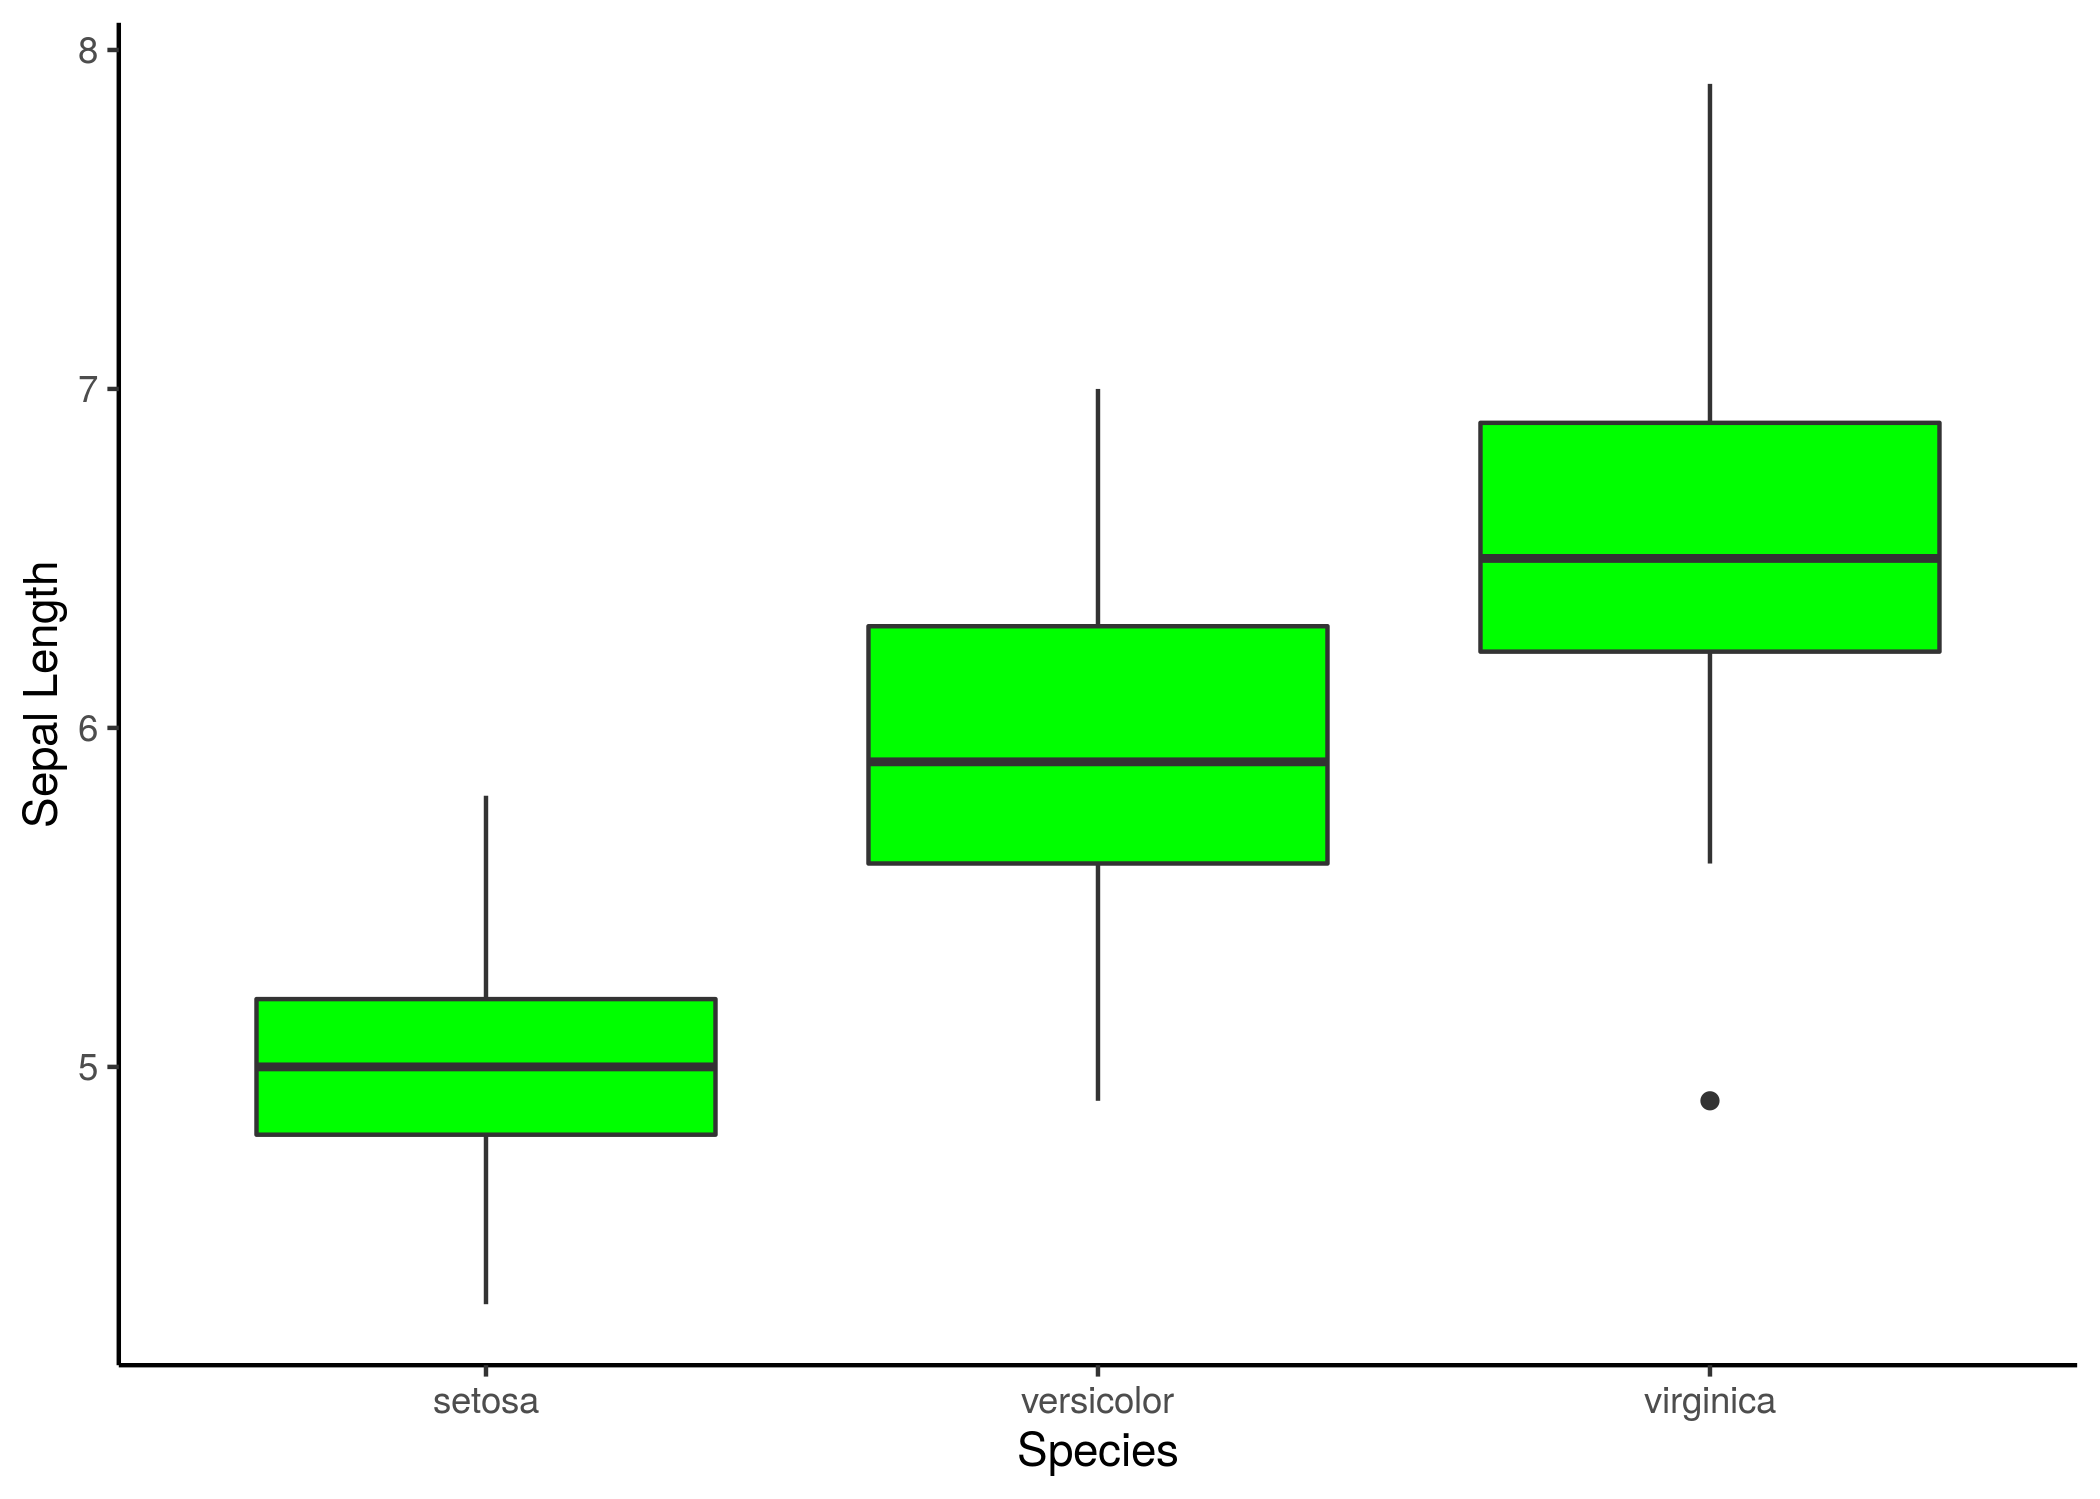
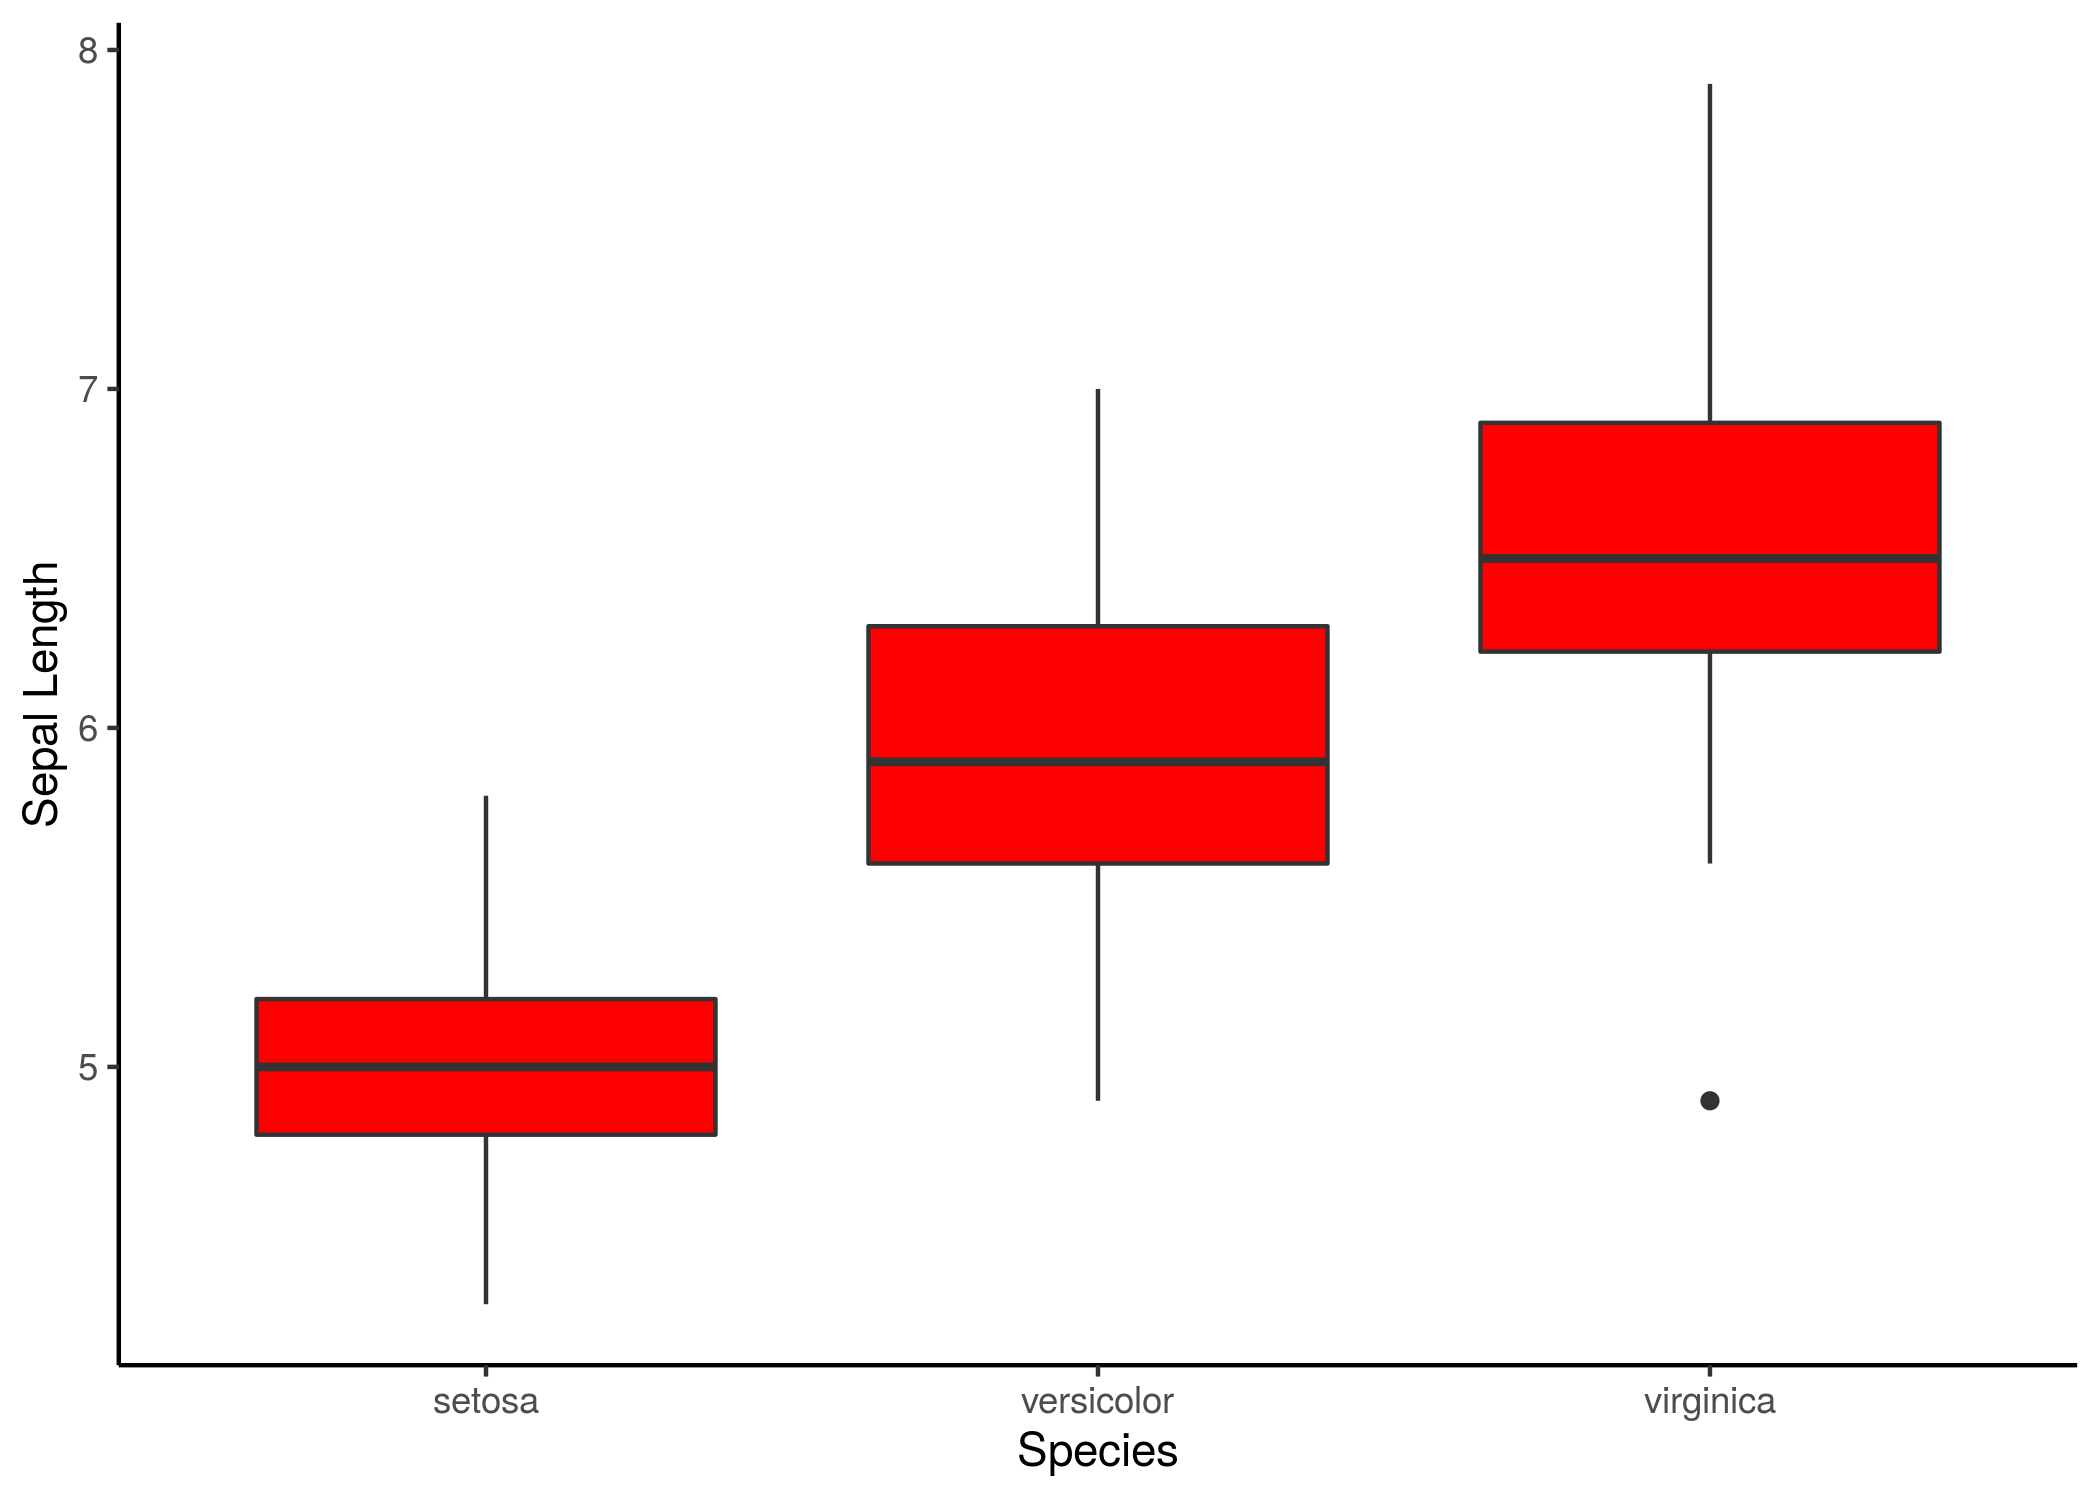
Changed color on plot

Changed region(s): [[0.4024, 0.3989, 0.65, 0.5831], [0.681, 0.2762, 0.9286, 0.4603], [0.1238, 0.6444, 0.3405, 0.7672]]

diff --git a/practice_plot_github.html b/practice_plot_github.html
@@ -370,7 +370,7 @@ summary {
 
 
 <pre class="r"><code>ggplot(iris, aes(x = Species, y = Sepal.Length)) +
-  geom_boxplot(fill = &quot;green&quot;) +
+  geom_boxplot(fill = &quot;red&quot;) +
   theme_classic() +
   labs( y = &quot;Sepal Length&quot;) -&gt; plot1
 
